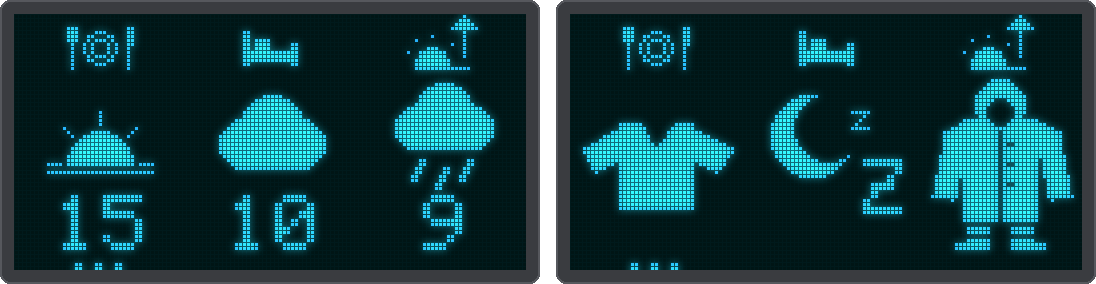
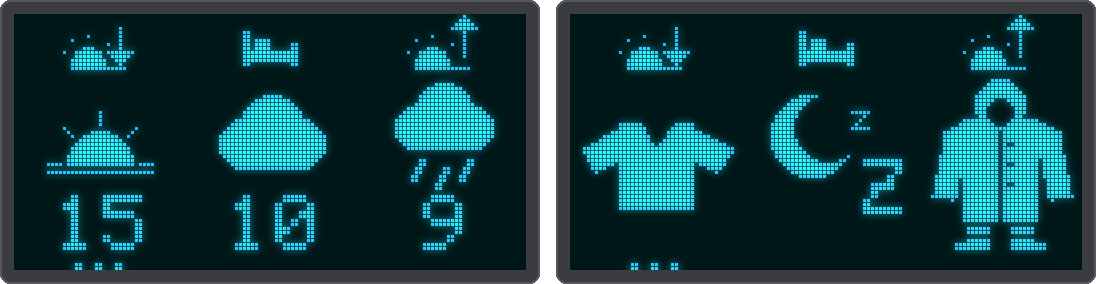
Kids screens: the dinner column becomes the evening once dinner is over
An hour after dinner time the current dinner column shows the evening's
setting sun instead of the plate, on the strip and on the village street.
Its outlook keeps the dinner rules (the conditions of now). A dinner column
still to come keeps the plate, and dinner at 21:00 keeps it until bedtime.

Claude-Session: https://claude.ai/code/session_01BgTn1WcpSUXFywgbLdTvzG

Changed region(s): [[0.5584, 0.0845, 0.6515, 0.2535], [0.031, 0.0845, 0.1241, 0.2535]]

diff --git a/test/test_logic/test_logic.cpp b/test/test_logic/test_logic.cpp
@@ -458,6 +458,18 @@ void test_part_of_day() {
     TEST_ASSERT_EQUAL(KIDS_PART_NIGHT, partOfDay(22, KIDS_SUNSET_EVENING));
 }
 
+// An hour after dinner time the current dinner column shows the evening
+void test_kids_shown_part() {
+    TEST_ASSERT_EQUAL(KIDS_PART_DINNER, kidsShownPart(KIDS_PART_DINNER, true, 18, 18));     // eating
+    TEST_ASSERT_EQUAL(KIDS_PART_EVENING, kidsShownPart(KIDS_PART_DINNER, true, 19, 18));    // dinner is over
+    TEST_ASSERT_EQUAL(KIDS_PART_EVENING, kidsShownPart(KIDS_PART_DINNER, true, 21, 18));
+    TEST_ASSERT_EQUAL(KIDS_PART_DINNER, kidsShownPart(KIDS_PART_DINNER, false, 19, 18));   // still to come: dinner
+    TEST_ASSERT_EQUAL(KIDS_PART_EVENING, kidsShownPart(KIDS_PART_DINNER, true, 18, 17));    // dinner at 17
+    TEST_ASSERT_EQUAL(KIDS_PART_DINNER, kidsShownPart(KIDS_PART_DINNER, true, 21, 21));     // until bedtime
+    TEST_ASSERT_EQUAL(KIDS_PART_AFTERNOON, kidsShownPart(KIDS_PART_AFTERNOON, true, 19, 18));
+    TEST_ASSERT_EQUAL(KIDS_PART_EVENING, kidsShownPart(KIDS_PART_EVENING, true, 18, KIDS_SUNSET_EVENING));
+}
+
 void test_light_at() {
     const long rise = 7 * 3600, set = 19 * 3600;    // day 0, in seconds
     TEST_ASSERT_EQUAL(KIDS_LIGHT_DAY, lightAt(12 * 3600, rise, set));
@@ -944,6 +956,7 @@ int main(int, char**) {
     RUN_TEST(test_kids_part_temperature);
     RUN_TEST(test_kids_now_outlook);
     RUN_TEST(test_part_of_day);
+    RUN_TEST(test_kids_shown_part);
     RUN_TEST(test_light_at);
     RUN_TEST(test_dinner_light);
     RUN_TEST(test_day_parts_in_the_morning);

diff --git a/firmware/src/main.cpp b/firmware/src/main.cpp
@@ -504,7 +504,8 @@ static size_t kidsColumns(KidsColumn* cols, KidsPart* parts, size_t max, bool ni
     for (size_t i = 0; i < np; i++) {
         // One number per part, shown on the weather screen and the one the outfit goes by
         KidsOutlook o = kidsPartOutlook(hours, parts[i], kidsLimits);
-        cols[i] = KidsColumn{ parts[i].part, o.valid, o.outfit, o.weather, o.light, kidsShownTemp((float)o.tempC) };
+        int shown = kidsShownPart(parts[i].part, parts[i].now, localHours[0], kidsEveningStart());
+        cols[i] = KidsColumn{ shown, o.valid, o.outfit, o.weather, o.light, kidsShownTemp((float)o.tempC) };
     }
     return np;
 }
@@ -533,7 +534,8 @@ void renderKidsVillage() {
     int localHours[24];
     size_t count = kidsHours(hours, localHours);
     KidsOutlook o = kidsNowOutlook(hours, count, kidsLimits);
-    KidsColumn col = { count ? partOfDay(localHours[0], kidsEveningStart()) : KIDS_PART_MORNING, o.valid, o.outfit,
+    int part = count ? partOfDay(localHours[0], kidsEveningStart()) : KIDS_PART_MORNING;
+    KidsColumn col = { count ? kidsShownPart(part, true, localHours[0], kidsEveningStart()) : part, o.valid, o.outfit,
                        o.weather, o.light, kidsShownTemp((float)o.tempC) };
     WeatherData weather = getCurrentWeather();
     char tempStr[8];

diff --git a/tools/screenshots_host/screens.cpp b/tools/screenshots_host/screens.cpp
@@ -68,7 +68,8 @@ static size_t columns(const Day& day, KidsColumn* cols, KidsPart* parts, size_t 
     size_t np = kidsDayParts(localHours, day.count, parts, max, evening, nightColumn);
     for (size_t i = 0; i < np; i++) {
         KidsOutlook o = kidsPartOutlook(hours, parts[i], LIMITS);
-        cols[i] = KidsColumn{ parts[i].part, o.valid, o.outfit, o.weather, o.light, o.tempC };
+        int shown = kidsShownPart(parts[i].part, parts[i].now, day.now, evening);
+        cols[i] = KidsColumn{ shown, o.valid, o.outfit, o.weather, o.light, o.tempC };
     }
     return np;
 }
@@ -178,7 +179,8 @@ static void village(const VillageScene& s, int windFrames) {
         hours[i] = KidsHour{ x.t, x.rainMm, x.gust, x.code, h < s.day.sunrise || h >= s.day.sunset, true, KIDS_LIGHT_DAY };
     }
     KidsOutlook o = kidsNowOutlook(hours, s.day.count, LIMITS);
-    KidsColumn col = { partOfDay(s.day.now, KIDS_DINNER_HOUR), o.valid, o.outfit, o.weather, o.light, o.tempC };
+    int part = partOfDay(s.day.now, KIDS_DINNER_HOUR);
+    KidsColumn col = { kidsShownPart(part, true, s.day.now, KIDS_DINNER_HOUR), o.valid, o.outfit, o.weather, o.light, o.tempC };
     bool any = s.day.count > 0;
     initWindAnimation(WIND_AREA_RIDE);
     hostSeed(5);

diff --git a/firmware/lib/motologic/motologic.h b/firmware/lib/motologic/motologic.h
@@ -161,6 +161,11 @@ KidsOutlook kidsWindowOutlook(const KidsHour* hours, size_t from, size_t to, con
 #define KIDS_DINNER_MAX_HR     21
 int partOfDay(int localHour, int dinnerHour);   // KIDS_PART_*
 
+// The symbol a column shows for its part: an hour after dinner time the current dinner column becomes the
+// evening (setting sun), dinner is over. Its outlook keeps the dinner rules (the conditions of now).
+#define KIDS_DINNER_LENGTH_HR  1
+int kidsShownPart(int part, bool now, int localHourNow, int dinnerHour);
+
 // One column of the kids screens: a part of the day and the forecast hours [from, to) that belong to it
 struct KidsPart {
     int    part;         // KIDS_PART_*

diff --git a/firmware/lib/motologic/motologic.cpp b/firmware/lib/motologic/motologic.cpp
@@ -239,6 +239,12 @@ int partOfDay(int localHour, int dinnerHour) {
     return KIDS_PART_NIGHT;
 }
 
+int kidsShownPart(int part, bool now, int localHourNow, int dinnerHour) {
+    if (part != KIDS_PART_DINNER || !now) return part;
+    if (dinnerHour < KIDS_DINNER_MIN_HR || dinnerHour > KIDS_DINNER_MAX_HR) dinnerHour = KIDS_EVENING_FROM_HR;
+    return localHourNow >= dinnerHour + KIDS_DINNER_LENGTH_HR ? KIDS_PART_EVENING : part;
+}
+
 int lightAt(long t, long sunrise, long sunset) {
     long days = (t >= sunrise) ? (t - sunrise) / 86400 : 0;
     long set = sunset + days * 86400;

diff --git a/docs/kids.md b/docs/kids.md
@@ -33,7 +33,7 @@ what is past:
 |------|---------|
 | 10:00 | the rest of this morning, this afternoon, dinner |
 | 14:00 | the rest of this afternoon, dinner, tomorrow morning |
-| 19:00 | the rest of dinner, tomorrow morning, tomorrow afternoon |
+| 19:00 | the rest of the evening (dinner is over), tomorrow morning, tomorrow afternoon |
 | at night | tomorrow morning, afternoon and dinner |
 
 With the **night column** switched on, the night (22-07) gets a column of its own once dinner has started,
@@ -42,7 +42,7 @@ and tomorrow morning stays in view. The afternoon is unchanged:
 | Time | Columns with the night column |
 |------|-------------------------------|
 | 14:00 | the rest of this afternoon, dinner, tomorrow morning |
-| 19:00 | the rest of dinner, the night, tomorrow morning |
+| 19:00 | the rest of the evening, the night, tomorrow morning |
 | at night | the rest of the night, tomorrow morning and afternoon |
 
 The current part has **three dots** underneath. Where a night lies between two columns there is a dotted line
@@ -53,7 +53,7 @@ it is:
 |--------|---------|
 | half sun on the horizon, arrow up | morning (the sun comes up) |
 | small sun | afternoon (the sun is high) |
-| plate with a fork and a knife | dinner |
+| plate with a fork and a knife | dinner (an hour after dinner time the current column shows the setting sun: dinner is over) |
 | half sun on the horizon, arrow down | the sunset evening, if chosen instead of dinner |
 | bed | the night (night column only) |
 
@@ -75,7 +75,7 @@ defaults, see [Settings](#settings)):
 **Weather screen:** the same three parts, each with a weather picture (sun or moon, partly cloudy, cloud,
 rain, thunderstorm, snow, wind) and its temperature: a number to read, without a unit.
 
-![Weather screens: 10:00 sun 12, partly cloudy 19, rain 16; a winter day with snow -3, cloud 1, moon -2; a summer afternoon sun 28, thunderstorm 22, sun 28 tomorrow; dinner at sunset 15, rain 9 and wind 17 tomorrow](images/kids-weather.png){ .center }
+![Weather screens: 10:00 sun 12, partly cloudy 19, rain 16; a winter day with snow -3, cloud 1, moon -2; a summer afternoon sun 28, thunderstorm 22, sun 28 tomorrow; the evening (dinner is over) at sunset 15, rain 9 and wind 17 tomorrow](images/kids-weather.png){ .center }
 
 **One number per part.** Each part of the day has one temperature that the weather screen shows and the
 outfit goes by, so the number and the picture always match:
@@ -107,7 +107,7 @@ The night column works with both.
 
 ![The sunset evening instead of dinner: a summer afternoon with a thunderstorm in the evening; a winter day with the moon in the evening](images/kids-sunset.png){ .center }
 
-![The night column at 19:00: the setting sun at dinner, a cloudy night of 10 and rain tomorrow morning; on the clothes screen the night has the moon and a sleeping Z instead of an outfit](images/kids-night.png){ .center }
+![The night column at 19:00, dinner is over: the evening with the setting sun, a cloudy night of 10 and rain tomorrow morning; on the clothes screen the night has the moon and a sleeping Z instead of an outfit](images/kids-night.png){ .center }
 
 The weather picture goes by the wettest weather of the part: one hour with 0.2 mm of rain or more (or a
 thunderstorm) makes it rain, and the outfit a rain coat (unless it is cold enough for the winter coat).
